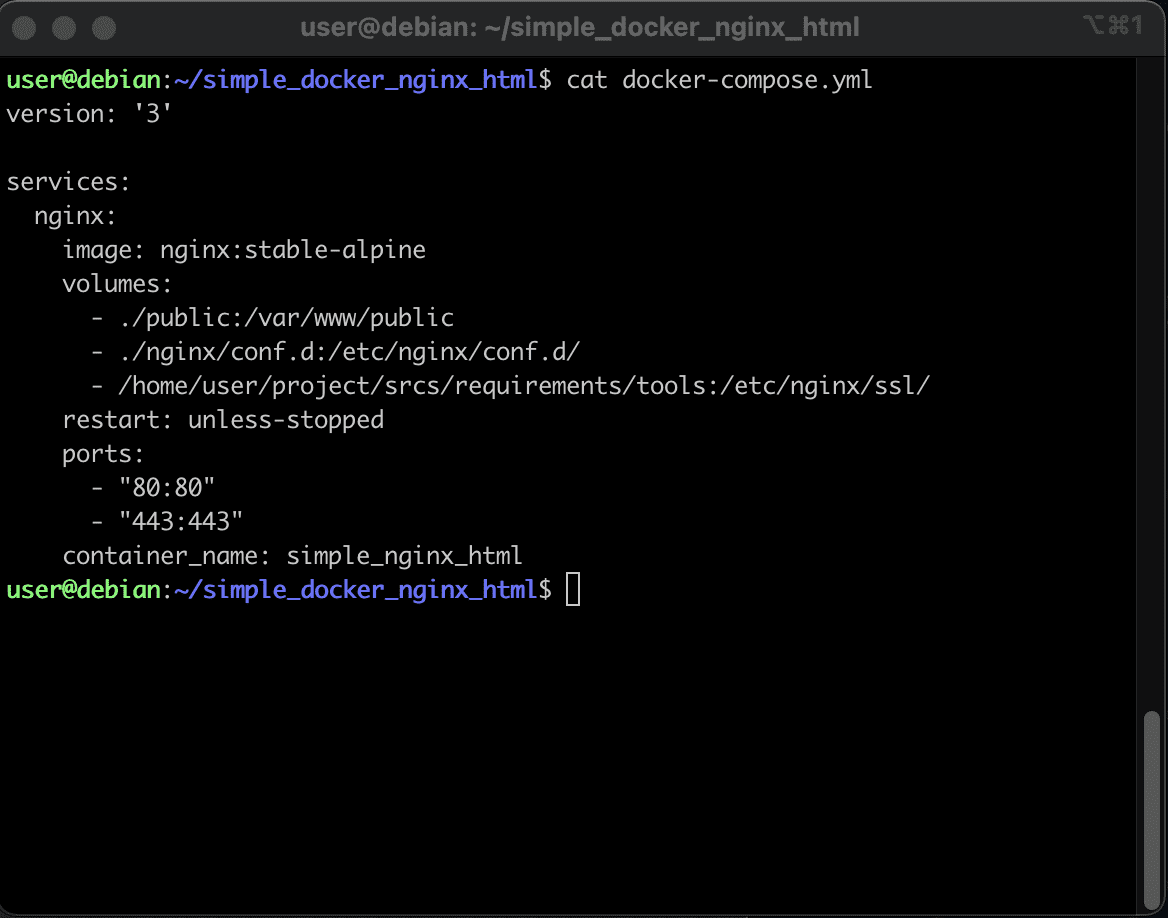
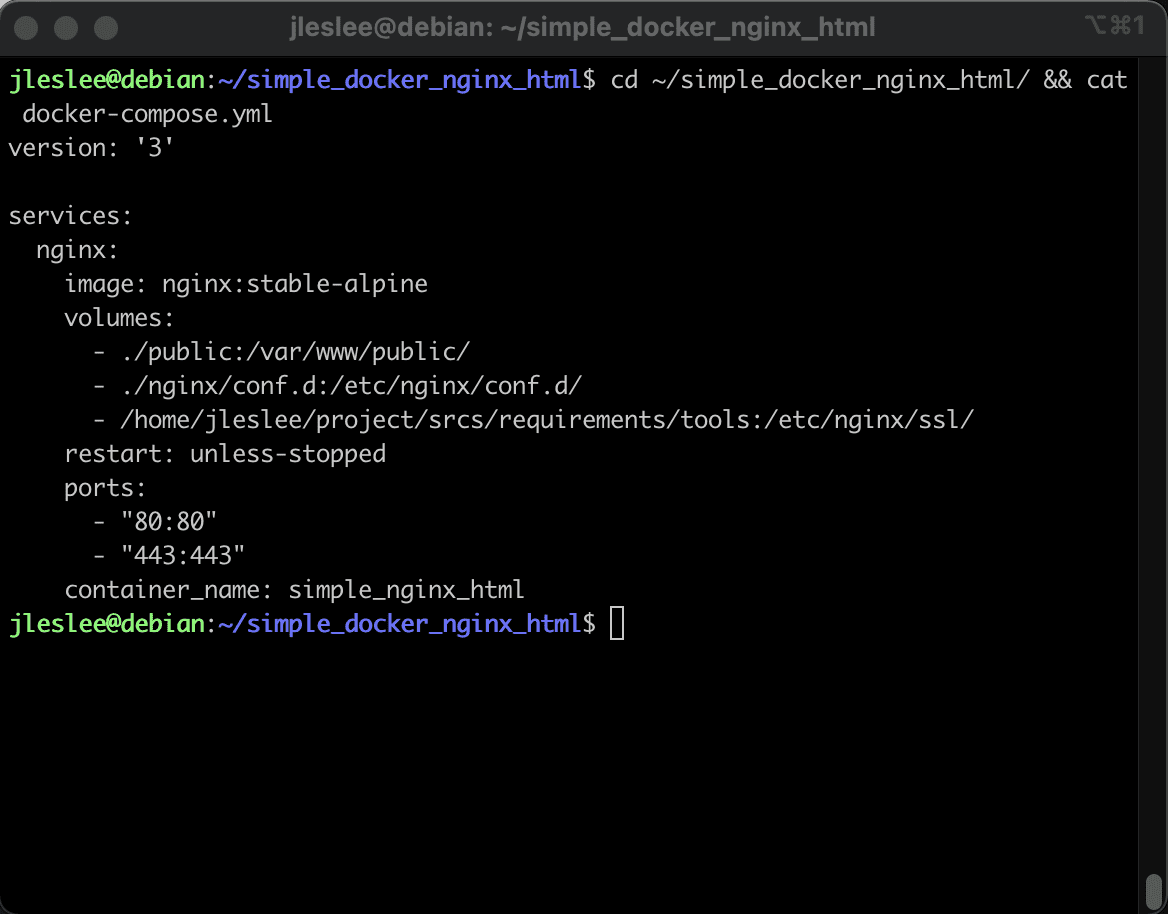
nginx

diff --git a/07_DOCKER_NGINX.md b/07_DOCKER_NGINX.md
@@ -187,9 +187,9 @@ server {
 
 Docker-compose - это система запуска контейнеров docker, можно сказать, это некая надстройка над docker. Если в docker-файлах мы прописывали, какой софт установить внутри одного контейнерного окружения, то с docker-compose мы можем управлять запуском сразу множества подобных контейнеров, запуская их одной командой.
 
-Для этого переходим на два уровня выше (```../../```) и правим наш уже созданный docker-compose файл:
+Для этого переходим на два уровня выше (``../../``) и правим наш уже созданный docker-compose файл:
 
-```nano docker-compose.yml```
+```cd ../../ && nano docker-compose.yml```
 
 Сначала прописываем версию. Последняя версия - третья.
 
@@ -245,7 +245,7 @@ services:
     volumes:
       - ./requirements/nginx/conf/:/etc/nginx/conf.d/
       - ./requirements/nginx/tools:/etc/nginx/ssl/
-      - /home/user/simple_docker_nginx_html/public/html:/var/www/html/
+      - /home/jleslee/simple_docker_nginx_html/public/html:/var/www/html/
 ```
 
 Дальше мы прописываем тип перезапуска (всегда, за исключением команды остановки):
@@ -270,7 +270,7 @@ services:
     volumes:
       - ./requirements/nginx/conf/:/etc/nginx/conf.d/
       - ./requirements/nginx/tools:/etc/nginx/ssl/
-      - /home/user/simple_docker_nginx_html/public/html:/var/www/html/
+      - /home/jleslee/simple_docker_nginx_html/public/html:/var/www/html/
     restart: unless-stopped
 ```
 

diff --git a/05_INSTALL_CERTIFICATE.md b/05_INSTALL_CERTIFICATE.md
@@ -172,7 +172,7 @@ services:
     volumes:
       - ./public:/var/www/public/
       - ./nginx/conf.d:/etc/nginx/conf.d/
-      - /home/user/project/srcs/requirements/tools:/etc/nginx/ssl/
+      - /home/jleslee/project/srcs/requirements/tools:/etc/nginx/ssl/
     restart: unless-stopped
     ports:
       - "80:80"
